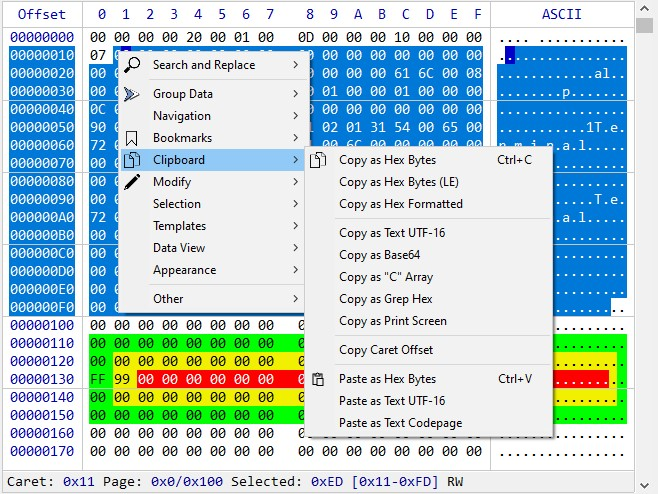
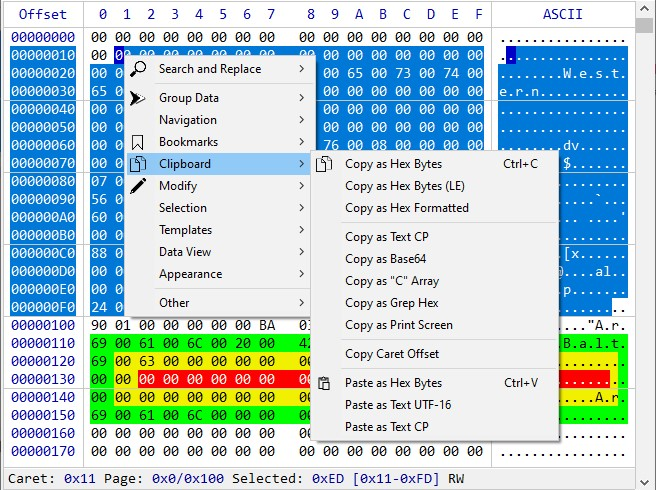
Clarified (renamed) `Clipboard->Copy as Text CP` menu. `Copy as Text UTF16` was misleading. Text is always copied with the current codepage. UTF16 is rather a Windows clipboard text format. CMD_CLPBRD_COPY_TEXTUTF16 -> CMD_CLPBRD_COPY_TEXTCP

diff --git a/HexCtrl/src/CHexCtrl.cpp b/HexCtrl/src/CHexCtrl.cpp
@@ -83,7 +83,7 @@ namespace HEXCTRL
 
 		enum class CHexCtrl::EClipboard : std::uint8_t {
 			COPY_HEX, COPY_HEXLE, COPY_HEXFMT, COPY_BASE64, COPY_CARR,
-			COPY_GREPHEX, COPY_PRNTSCRN, COPY_OFFSET, COPY_TEXT_UTF16,
+			COPY_GREPHEX, COPY_PRNTSCRN, COPY_OFFSET, COPY_TEXT_CP,
 			PASTE_HEX, PASTE_TEXT_UTF16, PASTE_TEXT_CP
 		};
 
@@ -474,8 +474,8 @@ void CHexCtrl::ExecuteCmd(EHexCmd eCmd)
 	case CMD_CLPBRD_COPY_HEXFMT:
 		ClipboardCopy(EClipboard::COPY_HEXFMT);
 		break;
-	case CMD_CLPBRD_COPY_TEXTUTF16:
-		ClipboardCopy(EClipboard::COPY_TEXT_UTF16);
+	case CMD_CLPBRD_COPY_TEXTCP:
+		ClipboardCopy(EClipboard::COPY_TEXT_CP);
 		break;
 	case CMD_CLPBRD_COPY_BASE64:
 		ClipboardCopy(EClipboard::COPY_BASE64);
@@ -910,7 +910,7 @@ bool CHexCtrl::IsCmdAvail(EHexCmd eCmd)const
 	case CMD_CLPBRD_COPY_HEX:
 	case CMD_CLPBRD_COPY_HEXLE:
 	case CMD_CLPBRD_COPY_HEXFMT:
-	case CMD_CLPBRD_COPY_TEXTUTF16:
+	case CMD_CLPBRD_COPY_TEXTCP:
 	case CMD_CLPBRD_COPY_BASE64:
 	case CMD_CLPBRD_COPY_CARR:
 	case CMD_CLPBRD_COPY_GREPHEX:
@@ -1446,7 +1446,7 @@ bool CHexCtrl::SetConfig(std::wstring_view wsvPath)
 		{ "CMD_CLPBRD_COPY_HEX", { CMD_CLPBRD_COPY_HEX, IDM_HEXCTRL_CLPBRD_COPYHEX } },
 		{ "CMD_CLPBRD_COPY_HEXLE", { CMD_CLPBRD_COPY_HEXLE, IDM_HEXCTRL_CLPBRD_COPYHEXLE } },
 		{ "CMD_CLPBRD_COPY_HEXFMT", { CMD_CLPBRD_COPY_HEXFMT, IDM_HEXCTRL_CLPBRD_COPYHEXFMT } },
-		{ "CMD_CLPBRD_COPY_TEXTUTF16", { CMD_CLPBRD_COPY_TEXTUTF16, IDM_HEXCTRL_CLPBRD_COPYTEXT } },
+		{ "CMD_CLPBRD_COPY_TEXTCP", { CMD_CLPBRD_COPY_TEXTCP, IDM_HEXCTRL_CLPBRD_COPYTEXTCP } },
 		{ "CMD_CLPBRD_COPY_BASE64", { CMD_CLPBRD_COPY_BASE64, IDM_HEXCTRL_CLPBRD_COPYBASE64 } },
 		{ "CMD_CLPBRD_COPY_CARR", { CMD_CLPBRD_COPY_CARR, IDM_HEXCTRL_CLPBRD_COPYCARR } },
 		{ "CMD_CLPBRD_COPY_GREPHEX", { CMD_CLPBRD_COPY_GREPHEX, IDM_HEXCTRL_CLPBRD_COPYGREPHEX } },
@@ -2168,8 +2168,8 @@ void CHexCtrl::ClipboardCopy(EClipboard eType)const
 	case EClipboard::COPY_HEXFMT:
 		wstrData = CopyHexFmt();
 		break;
-	case EClipboard::COPY_TEXT_UTF16:
-		wstrData = CopyTextUTF16();
+	case EClipboard::COPY_TEXT_CP:
+		wstrData = CopyTextCP();
 		break;
 	case EClipboard::COPY_BASE64:
 		wstrData = CopyBase64();
@@ -2552,7 +2552,7 @@ auto CHexCtrl::CopyPrintScreen()const->std::wstring
 	return wstrRet;
 }
 
-auto CHexCtrl::CopyTextUTF16()const->std::wstring
+auto CHexCtrl::CopyTextCP()const->std::wstring
 {
 	const auto ullSelSize = m_pSelection->GetSelSize();
 	std::string strData;
@@ -2568,7 +2568,7 @@ auto CHexCtrl::CopyTextUTF16()const->std::wstring
 		wstrText.assign(strData.begin(), strData.end());
 	}
 	else if (iEncoding == 0) { //UTF-16.
-		const auto sSizeWstr = (strData.size() % 2) == 0 ? strData.size() / sizeof(wchar_t) : (strData.size() - 1) / sizeof(wchar_t);
+		const auto sSizeWstr = (strData.size() - (strData.size() % 2)) / sizeof(wchar_t);
 		const auto pDataUTF16Beg = reinterpret_cast<const wchar_t*>(strData.data());
 		const auto pDataUTF16End = pDataUTF16Beg + sSizeWstr;
 		wstrText.assign(pDataUTF16Beg, pDataUTF16End);
@@ -4759,7 +4759,7 @@ void CHexCtrl::OnInitMenuPopup(CMenu* /*pPopupMenu*/, UINT nIndex, BOOL /*bSysMe
 		m_menuMain.EnableMenuItem(IDM_HEXCTRL_CLPBRD_COPYHEX, IsCmdAvail(CMD_CLPBRD_COPY_HEX) ? MF_ENABLED : MF_GRAYED);
 		m_menuMain.EnableMenuItem(IDM_HEXCTRL_CLPBRD_COPYHEXLE, IsCmdAvail(CMD_CLPBRD_COPY_HEXLE) ? MF_ENABLED : MF_GRAYED);
 		m_menuMain.EnableMenuItem(IDM_HEXCTRL_CLPBRD_COPYHEXFMT, IsCmdAvail(CMD_CLPBRD_COPY_HEXFMT) ? MF_ENABLED : MF_GRAYED);
-		m_menuMain.EnableMenuItem(IDM_HEXCTRL_CLPBRD_COPYTEXT, IsCmdAvail(CMD_CLPBRD_COPY_TEXTUTF16) ? MF_ENABLED : MF_GRAYED);
+		m_menuMain.EnableMenuItem(IDM_HEXCTRL_CLPBRD_COPYTEXTCP, IsCmdAvail(CMD_CLPBRD_COPY_TEXTCP) ? MF_ENABLED : MF_GRAYED);
 		m_menuMain.EnableMenuItem(IDM_HEXCTRL_CLPBRD_COPYBASE64, IsCmdAvail(CMD_CLPBRD_COPY_BASE64) ? MF_ENABLED : MF_GRAYED);
 		m_menuMain.EnableMenuItem(IDM_HEXCTRL_CLPBRD_COPYCARR, IsCmdAvail(CMD_CLPBRD_COPY_CARR) ? MF_ENABLED : MF_GRAYED);
 		m_menuMain.EnableMenuItem(IDM_HEXCTRL_CLPBRD_COPYGREPHEX, IsCmdAvail(CMD_CLPBRD_COPY_GREPHEX) ? MF_ENABLED : MF_GRAYED);

diff --git a/HexCtrl/res/HexCtrlRes.h b/HexCtrl/res/HexCtrlRes.h
@@ -134,37 +134,37 @@
 #define IDM_HEXCTRL_CLPBRD_COPYHEX      32786
 #define IDM_HEXCTRL_CLPBRD_COPYHEXLE    32787
 #define IDM_HEXCTRL_CLPBRD_COPYHEXFMT   32788
-#define IDM_HEXCTRL_CLPBRD_COPYTEXT     32789
+#define IDM_HEXCTRL_CLPBRD_COPYTEXTCP   32789
 #define IDM_HEXCTRL_CLPBRD_COPYBASE64   32790
 #define IDM_HEXCTRL_CLPBRD_COPYCARR     32791
 #define IDM_HEXCTRL_CLPBRD_COPYGREPHEX  32792
 #define IDM_HEXCTRL_CLPBRD_COPYPRNTSCRN 32793
-#define IDM_HEXCTRL_CLPBRD_PASTEHEX     32794
-#define IDM_HEXCTRL_CLPBRD_PASTETEXTUTF16 32795
-#define IDM_HEXCTRL_APPEAR_FONTINC      32796
-#define IDM_HEXCTRL_APPEAR_FONTDEC      32797
-#define IDM_HEXCTRL_APPEAR_CAPACINC     32798
-#define IDM_HEXCTRL_APPEAR_CAPACDEC     32799
-#define IDM_HEXCTRL_SEL_MARKSTART       32800
-#define IDM_HEXCTRL_SEL_MARKEND         32801
-#define IDM_HEXCTRL_SEL_ALL             32802
-#define IDM_HEXCTRL_DLGDATAINTERP       32803
-#define IDM_HEXCTRL_OTHER_DLGPRINT      32804
-#define IDM_HEXCTRL_DLGENCODING         32805
-#define IDM_HEXCTRL_NAV_DLGGOTO         32806
-#define IDM_HEXCTRL_NAV_DATABEG         32807
-#define IDM_HEXCTRL_NAV_DATAEND         32808
-#define IDM_HEXCTRL_NAV_PAGEBEG         32809
-#define IDM_HEXCTRL_NAV_PAGEEND         32810
-#define IDM_HEXCTRL_NAV_LINEBEG         32811
-#define IDM_HEXCTRL_NAV_LINEEND         32812
-#define IDM_HEXCTRL_NAV_REPFWD          32813
-#define IDM_HEXCTRL_NAV_REPBKW          32814
-#define IDM_HEXCTRL_SEARCH_NEXT         32815
-#define IDM_HEXCTRL_SEARCH_PREV         32816
-#define IDM_HEXCTRL_CLPBRD_COPYOFFSET   32817
-#define IDM_HEXCTRL_APPEAR_FONTCHOOSE   32818
-#define IDM_HEXCTRL_CLPBRD_PASTETEXTCP  32819
+#define IDM_HEXCTRL_CLPBRD_COPYOFFSET   32794
+#define IDM_HEXCTRL_CLPBRD_PASTEHEX     32795
+#define IDM_HEXCTRL_CLPBRD_PASTETEXTUTF16 32796
+#define IDM_HEXCTRL_CLPBRD_PASTETEXTCP  32797
+#define IDM_HEXCTRL_APPEAR_FONTINC      32798
+#define IDM_HEXCTRL_APPEAR_FONTDEC      32799
+#define IDM_HEXCTRL_APPEAR_CAPACINC     32800
+#define IDM_HEXCTRL_APPEAR_CAPACDEC     32801
+#define IDM_HEXCTRL_SEL_MARKSTART       32802
+#define IDM_HEXCTRL_SEL_MARKEND         32803
+#define IDM_HEXCTRL_SEL_ALL             32804
+#define IDM_HEXCTRL_DLGDATAINTERP       32805
+#define IDM_HEXCTRL_OTHER_DLGPRINT      32806
+#define IDM_HEXCTRL_DLGENCODING         32807
+#define IDM_HEXCTRL_NAV_DLGGOTO         32808
+#define IDM_HEXCTRL_NAV_DATABEG         32809
+#define IDM_HEXCTRL_NAV_DATAEND         32810
+#define IDM_HEXCTRL_NAV_PAGEBEG         32811
+#define IDM_HEXCTRL_NAV_PAGEEND         32812
+#define IDM_HEXCTRL_NAV_LINEBEG         32813
+#define IDM_HEXCTRL_NAV_LINEEND         32814
+#define IDM_HEXCTRL_NAV_REPFWD          32815
+#define IDM_HEXCTRL_NAV_REPBKW          32816
+#define IDM_HEXCTRL_SEARCH_NEXT         32817
+#define IDM_HEXCTRL_SEARCH_PREV         32818
+#define IDM_HEXCTRL_APPEAR_FONTCHOOSE   32819
 #define IDM_HEXCTRL_TEMPL_APPLYCURR     32820
 #define IDM_HEXCTRL_TEMPL_DISAPPLY      32821
 #define IDM_HEXCTRL_TEMPL_DISAPPALL     32822

diff --git a/HexCtrl/HexCtrl.h b/HexCtrl/HexCtrl.h
@@ -35,7 +35,7 @@ namespace HEXCTRL
 		CMD_NAV_PAGEBEG, CMD_NAV_PAGEEND, CMD_NAV_LINEBEG, CMD_NAV_LINEEND,
 		CMD_GROUPBY_BYTE, CMD_GROUPBY_WORD, CMD_GROUPBY_DWORD, CMD_GROUPBY_QWORD,
 		CMD_BKM_ADD, CMD_BKM_REMOVE, CMD_BKM_NEXT, CMD_BKM_PREV, CMD_BKM_REMOVEALL, CMD_BKM_DLG_MGR,
-		CMD_CLPBRD_COPY_HEX, CMD_CLPBRD_COPY_HEXLE, CMD_CLPBRD_COPY_HEXFMT, CMD_CLPBRD_COPY_TEXTUTF16,
+		CMD_CLPBRD_COPY_HEX, CMD_CLPBRD_COPY_HEXLE, CMD_CLPBRD_COPY_HEXFMT, CMD_CLPBRD_COPY_TEXTCP,
 		CMD_CLPBRD_COPY_BASE64, CMD_CLPBRD_COPY_CARR, CMD_CLPBRD_COPY_GREPHEX, CMD_CLPBRD_COPY_PRNTSCRN,
 		CMD_CLPBRD_COPY_OFFSET, CMD_CLPBRD_PASTE_HEX, CMD_CLPBRD_PASTE_TEXTUTF16, CMD_CLPBRD_PASTE_TEXTCP,
 		CMD_MODIFY_OPERS_DLG, CMD_MODIFY_FILLZEROS, CMD_MODIFY_FILLDATA_DLG, CMD_MODIFY_UNDO, CMD_MODIFY_REDO,

diff --git a/HexCtrl/src/CHexCtrl.h b/HexCtrl/src/CHexCtrl.h
@@ -120,7 +120,7 @@ namespace HEXCTRL::INTERNAL
 		[[nodiscard]] auto CopyHexLE()const->std::wstring;
 		[[nodiscard]] auto CopyOffset()const->std::wstring;
 		[[nodiscard]] auto CopyPrintScreen()const->std::wstring;
-		[[nodiscard]] auto CopyTextUTF16()const->std::wstring;
+		[[nodiscard]] auto CopyTextCP()const->std::wstring;
 		void DrawWindow(CDC* pDC)const;
 		void DrawInfoBar(CDC* pDC)const;
 		void DrawOffsets(CDC* pDC, ULONGLONG ullStartLine, int iLines)const;
